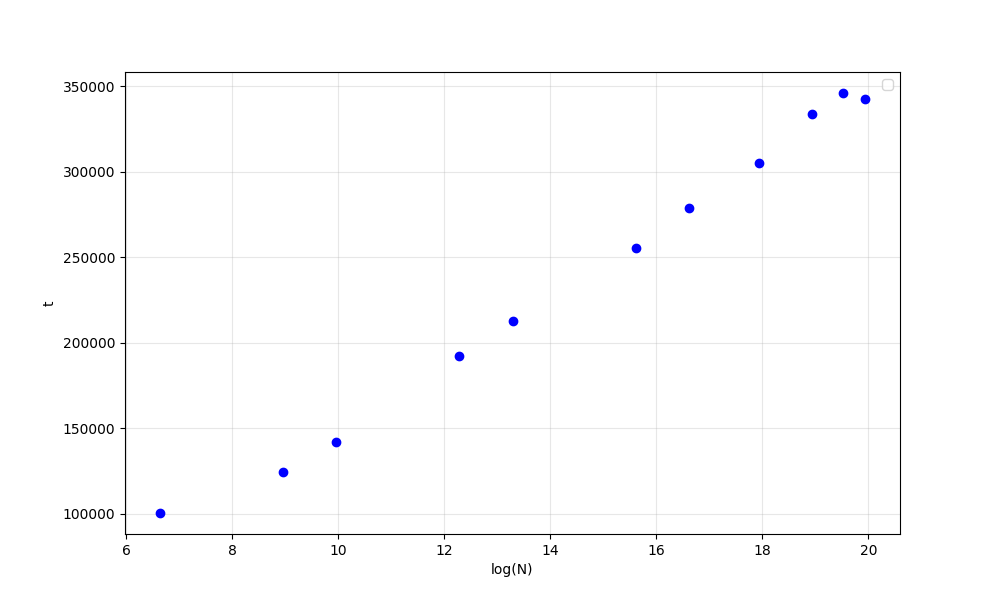
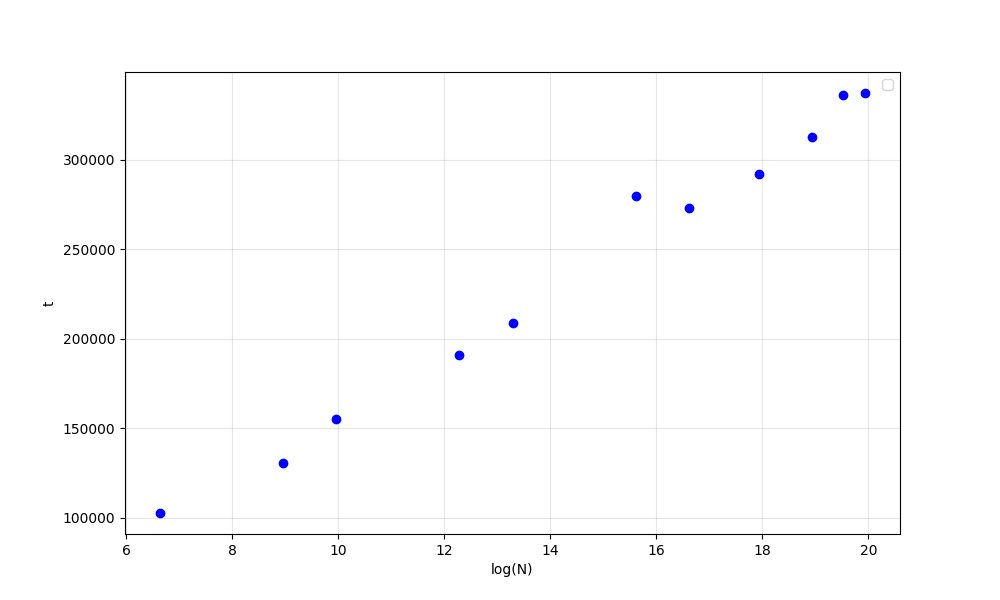
правки

diff --git a/py/graphics.py b/py/graphics.py
@@ -1,12 +1,12 @@
 import pandas as pd
 import matplotlib.pyplot as plt
 
-data = pd.read_csv('results/stratagy_C.csv', index_col=0)
-data2 = pd.read_csv('results/stratagy_C2.csv', index_col=0)
+data = pd.read_csv('results/binary.csv', index_col=0)
+# data2 = pd.read_csv('results/linear.csv', index_col=0)
 
 plt.figure(figsize=(10, 6))
 plt.errorbar(data['X'], data['Y'], yerr=0, xerr=0, fmt='.', capsize=3, color='green')
-plt.errorbar(data2['X'], data2['Y'], yerr=0, xerr=0, fmt='.', capsize=3, color='blue')
+# plt.errorbar(data2['X'], data2['Y'], yerr=0, xerr=0, fmt='.', capsize=3, color='blue')
 
 plt.xscale('log') 
 plt.yscale('log')  

diff --git a/1/iteration.cpp b/1/iteration.cpp
@@ -27,11 +27,11 @@ long long measure_time(int N) {
     int key = -1;
 
     auto begin = chrono::steady_clock::now();
-    for (unsigned cnt = 100000; cnt != 0; --cnt)
+    for (unsigned cnt = 10'000'000; cnt != 0; --cnt)
         linear(arr, N, key);
     auto end = chrono::steady_clock ::now();
     delete[] arr;
-    return chrono::duration_cast<chrono::milliseconds>(end - begin).count();
+    return chrono::duration_cast<chrono::microseconds>(end - begin).count();
 }
 
 int main() {

diff --git a/1/binary.cpp b/1/binary.cpp
@@ -38,7 +38,7 @@ long long measure_time(int N) {
     int total = 0;
 
     auto begin = chrono::steady_clock::now();
-    for (unsigned cnt = 10000000; cnt != 0; --cnt) {
+    for (unsigned cnt = 10'000'000; cnt != 0; --cnt) {
         total += binary(arr, N, key);
     }
     auto end = chrono::steady_clock::now();

diff --git a/py/graphics_for_binary.py b/py/graphics_for_binary.py
@@ -2,7 +2,7 @@ import pandas as pd
 import numpy as np
 import matplotlib.pyplot as plt
 
-data = pd.read_csv('binary.csv', index_col=0)
+data = pd.read_csv('results/binary.csv', index_col=0)
 
 plt.figure(figsize=(10, 6))
 plt.plot(np.log2(data['X']), data['Y'], 'o', color='blue')
